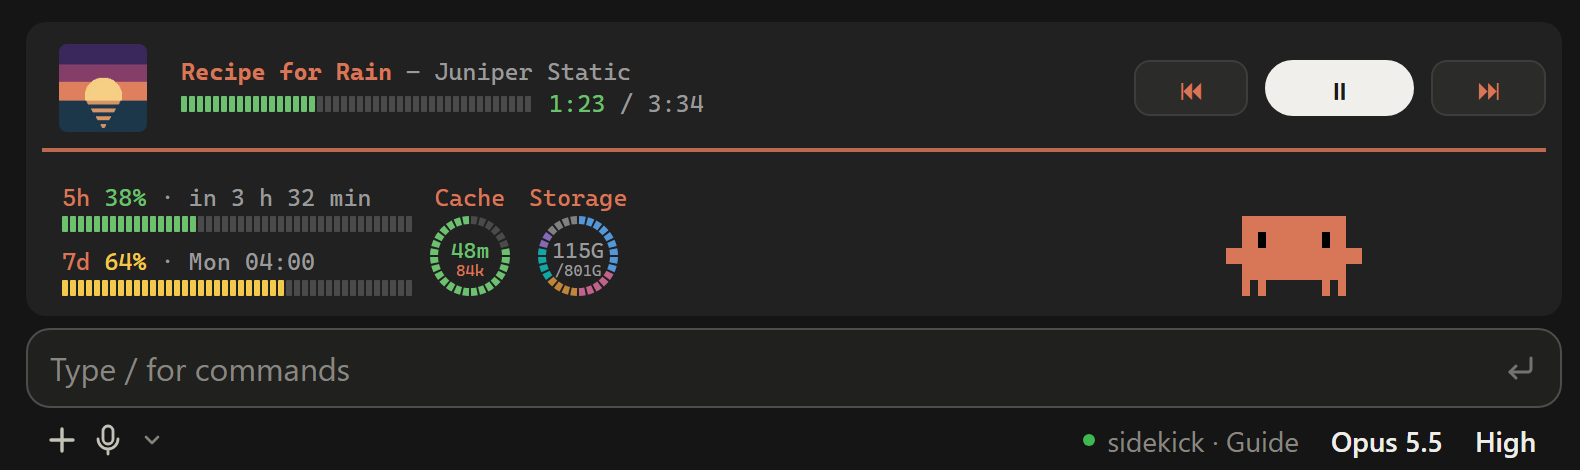
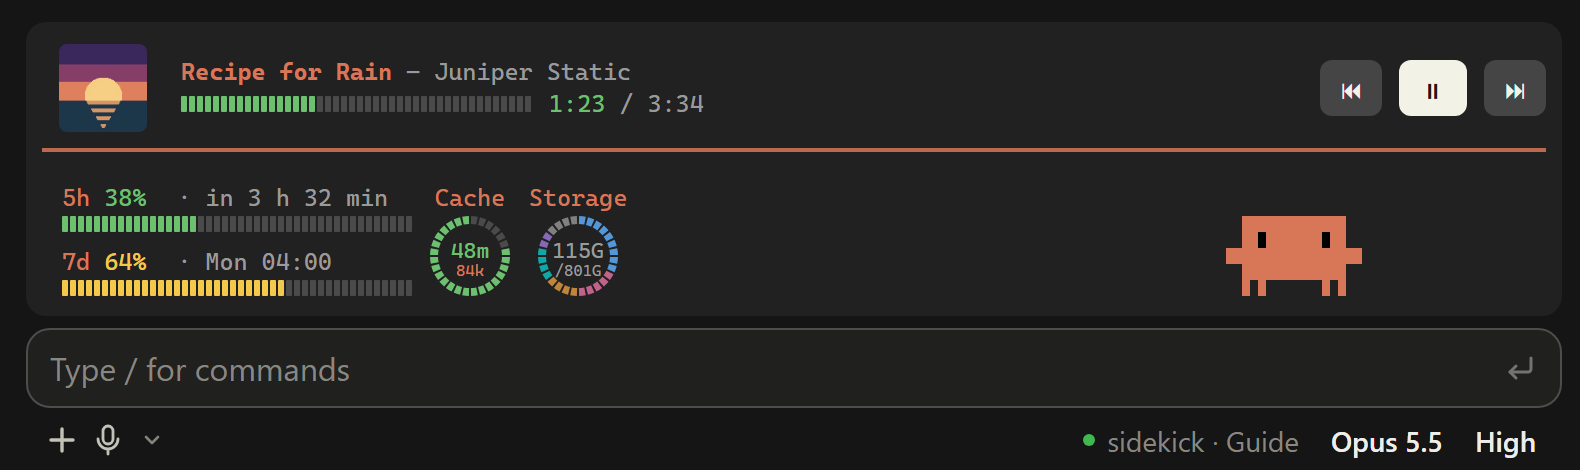
tune-strip 0.9.0: separator line no longer flickers when sidekick opens or closes; buttons as the desktop app draws them
clawd-buddy README: the sad group in tune-strip.beat.

diff --git a/mods/tune-strip/tests/tune-strip.test.ts b/mods/tune-strip/tests/tune-strip.test.ts
@@ -358,9 +358,12 @@ test('Desktop: Knöpfe zeigen nur Symbole (kein ausgeschriebener label, den der 
   walk(tree)
   expect(buttons.length).toBe(3)
   for (const b of buttons) {
-    expect(String(b.props.label)).toMatch(/^[ ⏮⏸▶⏭⇄↻−+0-9]+$/u) // die Engine setzt label aus dem Kindtext
-    expect(textOf(b)).toMatch(/^[ ⏮⏸▶⏭⇄↻−+0-9]+$/u)
+    // Die Engine setzt label aus dem einen Kindtext; 0.9.0: nur das Symbol, ohne Leerzeichen und ohne gefärbtes Text-Kind
+    // (der Desktop zeichnet den Kindtext ohne Farbe und schluckt Leerzeichen, Nachtrag 0.9.0)
+    expect(String(b.props.label ?? textOf(b))).toMatch(/^[⏮⏸▶⏭⇄↻−+0-9]+$/u)
+    expect(JSON.stringify(b)).not.toContain('"color"')
   }
+  expect(buttons.filter((b) => b.props.variant === 'primary').length).toBe(1) // nur Abspielen/Pause ist hell
   await ui.unmount()
   // Ebenen: tune-strip (40) steht vor quick-replies (20) und sidekick (30) in der Wurzel
   const lay = (n: number, name: string) => layer(n, name, key(name))
@@ -826,6 +829,78 @@ test('Trennlinie 0.7.1: quick-replies.band steht und fällt mit der Linie, auch 
   const ui2 = await $.ui.mount(band('desktop', 120))
   expect(seen((await ui2.drawn()) as Node)).toContain('Trennlinie')
   await ui2.unmount()
+})
+
+// 0.9.0: Zustand von Zufall/Wiederholen zeigt im Desktop `variant: 'primary'` (eine Textfarbe im Knopf zeichnet die App nicht)
+test('Knöpfe 0.9.0: eingeschaltete Zustandsknöpfe sind hell (primary), ausgeschaltete grau', DE_EXTRA, async ($, on) => {
+  const w = world(on, { inner: 'text', out: q({ shuffle: true, repeat: 'None' }, true) })
+  await w.start($)
+  const ui = await $.ui.mount(band('desktop', 120))
+  const v = async (k: string) => walk((await ui.drawn()) as Node).find((x) => x && typeof x === 'object' && x.type === 'Button' && x.props?.key === k)
+  const variant = async (k: string) => ((await v(k)) as { props?: Record<string, unknown> })?.props?.variant
+  expect(await variant('shuffle')).toBe('primary')
+  expect(await variant('repeat')).toBeUndefined()
+  expect(await variant('toggle')).toBe('primary')
+  expect(await variant('prev')).toBeUndefined()
+  await ui.unmount()
+})
+
+// 0.9.0: Haltezeit der Trennlinie. Beim Turnwechsel öffnet oder schließt sidekick seine Ebene, und `quick-replies.band` ist kurz null
+// (oder ein `$.state.get` wird abgelehnt); die Linie bleibt stehen und geht erst, wenn 3 s lang nichts mehr darunter steht.
+for (const gap of ['null', 'abgelehnt'] as const) {
+  test(`Trennlinie 0.9.0: sidekick auf und zu, quick-replies.band kurz ${gap} – die Linie bleibt durchgehend`, DE, async ($, on) => {
+    const o: { inner: 'above' | 'text' } = { inner: 'above' }
+    const w = world(on, o)
+    let mode: 'shown' | 'null' | 'abgelehnt' = 'shown'
+    on('state.get', ($: unknown, e: any) => {
+      if (mode === 'abgelehnt') throw new Error('state.get abgelehnt')
+      return { value: { value: e.plugin === 'quick-replies' && mode === 'shown' ? { shown: true } : undefined, version: 1 } } as never
+    })
+    on('state.set', () => ({ value: { isSet: true, version: 1 } }) as never)
+    await w.start($)
+    const ui = await $.ui.mount(band('desktop', 120))
+    expect(seen((await ui.drawn()) as Node)).toContain('Trennlinie')
+    // sidekick schließt, der Turn beginnt: quick-replies meldet kurz nichts
+    o.inner = 'text'
+    mode = gap
+    const before = w.state.renders
+    await w.clock.advance(5000) // Neuzeichnen der Zeit (POS_REDRAW)
+    expect(w.state.renders).toBeGreaterThan(before)
+    expect(seen((await ui.drawn()) as Node)).toContain('Trennlinie')
+    // sidekick öffnet wieder, die Pille ist zurück, bevor die Haltezeit endet
+    o.inner = 'above'
+    mode = 'shown'
+    for (let i = 0; i < 4; i++) {
+      await w.clock.advance(1000)
+      expect(seen((await ui.drawn()) as Node)).toContain('Trennlinie')
+    }
+    await w.clock.advance(10000)
+    expect(seen((await ui.drawn()) as Node)).toContain('Trennlinie')
+    await ui.unmount()
+  })
+}
+
+test('Trennlinie 0.9.0: steht wirklich nichts mehr darunter, geht die Linie nach der Haltezeit von selbst', DE, async ($, on) => {
+  const o: { inner: 'above' | 'text' } = { inner: 'above' }
+  const w = world(on, o)
+  let shown = true
+  on('state.get', ($: unknown, e: any) => ({ value: { value: e.plugin === 'quick-replies' && shown ? { shown: true } : undefined, version: 1 } }) as never)
+  on('state.set', () => ({ value: { isSet: true, version: 1 } }) as never)
+  await w.start($)
+  const ui = await $.ui.mount(band('desktop', 120))
+  expect(seen((await ui.drawn()) as Node)).toContain('Trennlinie')
+  shown = false
+  await w.clock.advance(5000) // erstes Zeichnen ohne etwas darunter: die Linie bleibt noch
+  expect(seen((await ui.drawn()) as Node)).toContain('Trennlinie')
+  await w.clock.advance(1000)
+  expect(seen((await ui.drawn()) as Node)).toContain('Trennlinie')
+  await w.clock.advance(3000) // Haltezeit vorbei: der Takt zeichnet selbst neu, die Linie geht
+  expect(seen((await ui.drawn()) as Node)).not.toContain('Trennlinie')
+  // kommt wieder etwas darunter, steht sie beim nächsten Zeichnen sofort
+  shown = true
+  await w.clock.advance(5000)
+  expect(seen((await ui.drawn()) as Node)).toContain('Trennlinie')
+  await ui.unmount()
 })
 
 // ---------- 0.3.0: tune-strip.playing für clawd-buddy ----------

diff --git a/mods/tune-strip/hooks/view.ts b/mods/tune-strip/hooks/view.ts
@@ -134,17 +134,22 @@ function titleOf(t: Track): string {
 /**
  * Desktop. `full`: eine eigene Leiste (Ebene `BAR_LEVEL`) über allen Mods: Cover, Titel – Interpret, Zeit mit Balken, rechts alle Knöpfe.
  * `compact`/`mini`: ein Platz in der Zeile (Cover, Titel auf feste Breite gekürzt, Knöpfe). Die Knöpfe zeigen nur Symbole: der Desktop
- * zeichnet `label` als Knopftext, deshalb steht der Inhalt als Kind und der Knopf hat keinen `label`.
+ * zeichnet `label` als Knopftext, deshalb ist das Symbol das einzige Kind und der Knopf hat keinen ausgeschriebenen `label`.
+ *
+ * Knöpfe im Desktop (Nachtrag 0.9.0): Die App zeichnet ihren eigenen Knopf aus dem Kindtext, ohne Farbe der Kinder (docs/raw/en/reference.md:307),
+ * in fester Größe; `variant: 'secondary'` sieht aus wie ohne, eine Box mit `width` macht den Knopf nicht breiter (Probe, Fynn 2026-11-05).
+ * Deshalb keine Farbe und keine Leerzeichen im Knopf: grau mit hellem Symbol, `primary` hell mit dunklem Symbol. `primary` markiert
+ * Abspielen/Pause und eingeschaltete Zustandsknöpfe (Zufall, Wiederholen), weil eine Textfarbe dort nicht ankommt.
  */
 export function desktopTree(els: Els, h: Handlers, v: ViewInput) {
   const { Box, Text, Button, Svg } = els
   const t = T[v.lang]
   const playing = v.track.status === 'Playing'
-  const btn = (key: string, glyph: string, word: Parameters<Handlers['press']>[0], o: { primary?: boolean; on?: boolean; scope?: string; color?: string } = {}) =>
+  const btn = (key: string, glyph: string, word: Parameters<Handlers['press']>[0], o: { primary?: boolean; scope?: string } = {}) =>
     Button({
       key,
       ...(o.scope ? { hover: { scope: o.scope } } : {}),
-      children: [Text({ ...(o.color ? { color: o.color } : o.on ? { color: 'success' } : {}), children: [glyph] })],
+      children: [glyph],
       ...(o.primary ? { variant: 'primary' } : {}),
       onPress: () => h.press(word),
     })
@@ -185,27 +190,25 @@ export function desktopTree(els: Els, h: Handlers, v: ViewInput) {
   // der zwischen Titel und Knöpfen frei ist: die Knöpfe rücken nicht, und sie bleiben in der Leiste mittig.
   const hint = (scope: string, text: string) =>
     Box({ display: 'none', hover: { scope, display: 'flex' }, children: [Text({ dimColor: true, wrap: 'truncate-end', children: [text] })] })
-  const named = (key: string, glyph: string, word: Parameters<Handlers['press']>[0], text: string, o: { primary?: boolean; on?: boolean; color?: string } = {}) => ({
+  const named = (key: string, glyph: string, word: Parameters<Handlers['press']>[0], text: string, o: { primary?: boolean } = {}) => ({
     button: btn(key, glyph, word, { ...o, scope: `sp-${key}` }),
     hint: hint(`sp-${key}`, text),
   })
-  // Drei große Knöpfe: zurück (neu starten, zweimal: voriger Titel), Abspielen/Pause als Pille in der Mitte, weiter. Die Symbole stehen
-  // in Orange wie die Beschriftung der limit-bars; Leerzeichen machen die Knöpfe breiter (Höhe und Schriftgröße legt der Desktop fest).
-  const wide = (g: string) => `   ${g}   `
-  const toggleN = named('toggle', playing ? '     ⏸     ' : '     ▶     ', 'toggle', playing ? t.label.pause : t.label.play, { primary: true })
+  // Drei Knöpfe: zurück (neu starten, zweimal: voriger Titel), Abspielen/Pause hell in der Mitte, weiter
+  const toggleN = named('toggle', playing ? '⏸' : '▶', 'toggle', playing ? t.label.pause : t.label.play, { primary: true })
   const parts = v.extraButtons
     ? [
-        named('prev', wide('⏮'), 'prev', t.label.prev, { color: ORANGE }),
+        named('prev', '⏮', 'prev', t.label.prev),
         named('back', '−15', 'back', t.label.back),
         toggleN,
         named('forward', '+15', 'forward', t.label.forward),
-        named('next', wide('⏭'), 'next', t.label.next, { color: ORANGE }),
+        named('next', '⏭', 'next', t.label.next),
       ]
-    : [named('prev', wide('⏮'), 'prev', t.label.prev, { color: ORANGE }), toggleN, named('next', wide('⏭'), 'next', t.label.next, { color: ORANGE })]
+    : [named('prev', '⏮', 'prev', t.label.prev), toggleN, named('next', '⏭', 'next', t.label.next)]
   const modeParts = v.extraButtons
     ? [
-        named('shuffle', '⇄', 'shuffle', t.label.shuffle, { on: v.track.shuffle }),
-        named('repeat', v.track.repeat === 'Track' ? '↻1' : '↻', 'repeat', t.label.repeat, { on: v.track.repeat !== 'None' }),
+        named('shuffle', '⇄', 'shuffle', t.label.shuffle, { primary: v.track.shuffle }),
+        named('repeat', v.track.repeat === 'Track' ? '↻1' : '↻', 'repeat', t.label.repeat, { primary: v.track.repeat !== 'None' }),
       ]
     : []
   const controls = Box({

diff --git a/mods/tune-strip/hooks/register.ts b/mods/tune-strip/hooks/register.ts
@@ -61,6 +61,12 @@ let bandDrawn = false // zeichnet tune-strip gerade etwas ins Band (Stufe nicht 
 let drawsTime = false
 let lastSig = ''
 let lastDrawAt = 0
+// Haltezeit der Trennlinie (0.9.0): „etwas darunter“ gilt sofort, „nichts darunter“ erst nach SEP_HOLD_MS. Beim Turnwechsel ist
+// `quick-replies.band` kurz null, und ein abgelehntes `$.state.get` zählte wie „nichts“; beides ließ die Linie kurz verschwinden (Fynn, 2026-11-05)
+const SEP_HOLD_MS = 3000
+let sepOn = false // steht die Linie gerade?
+let sepLostAt = 0 // erstes Zeichnen ohne etwas darunter, während die Linie stand (0 = nichts verloren); wie `lostAt` beim Titelwechsel
+let sepHeld = false // die Linie steht nur noch wegen der Haltezeit; der Takt zeichnet nach deren Ende neu
 // Jede Steuerung erhöht den Zählstand; eine Abfrage, die davor begann, wird verworfen (sie würde den Klick zurückdrehen)
 let epoch = 0
 let ctlChain: Promise<unknown> = Promise.resolve()
@@ -540,6 +546,12 @@ async function tick($: EngineInterface, getLast: () => number, setLast: (v: numb
       return
     }
   }
+  // Haltezeit der Trennlinie vorbei: einmal neu zeichnen, damit die Linie geht, falls darunter weiter nichts steht
+  if (sepHeld && now - sepLostAt >= SEP_HOLD_MS) {
+    sepHeld = false
+    await redraw($)
+    return
+  }
   // Position läuft zwischen den Abfragen weiter: nur neu zeichnen, wenn die Zeit sichtbar ist und gespielt wird, und nicht öfter als alle POS_REDRAW ms
   if (drawsTime && track?.status === 'Playing' && now - lastDrawAt >= POS_REDRAW) await redraw($)
 }
@@ -656,6 +668,9 @@ export function register(on: On, options?: Readonly<Record<string, unknown>>) {
   bandDrawn = false
   drawsTime = false
   lastSig = ''
+  sepOn = false
+  sepLostAt = 0
+  sepHeld = false
   drawn.clear()
   tracker = new Tracker()
   spotifyPid = 0
@@ -797,6 +812,10 @@ export function register(on: On, options?: Readonly<Record<string, unknown>>) {
         // Aus: auch der Takt hält an (Review 0.3.0, K1); `/tune off` hat `tune-strip.playing` schon auf null gesetzt, `on` zeichnet und startet ihn neu
         timer?.cancel()
         timer = null
+        // Die Linie fängt nach `/tune on` frisch an (Review 0.9.0 K2): keine Haltezeit aus der Zeit vor `off`
+        sepOn = false
+        sepLostAt = 0
+        sepHeld = false
         return theirs
       }
       const now = await $.clock.now()
@@ -828,7 +847,19 @@ export function register(on: On, options?: Readonly<Record<string, unknown>>) {
       const below = layers.some((l) => levelOf(l) < BAR_LEVEL) || slots.length > 0 || others.some((x) => x !== null)
       // Uhr noch einmal lesen: die Awaits oben haben Zeit gekostet, und die Voranimation des Bilds beginnt jetzt bei genau dieser Position
       const drawNow = await $.clock.now().catch(() => now)
-      const input = { lang, stage, track, cover, pos: positionNow(track, queryAt, drawNow), extraButtons, sep: below }
+      // 0.9.0: Linie mit Haltezeit (SEP_HOLD_MS); `sepHeld` lässt den Takt nach ihrem Ende neu zeichnen
+      if (below) {
+        sepOn = true
+        sepLostAt = 0
+      } else if (sepOn) {
+        if (sepLostAt === 0) sepLostAt = drawNow
+        if (drawNow - sepLostAt >= SEP_HOLD_MS) {
+          sepOn = false
+          sepLostAt = 0
+        }
+      }
+      sepHeld = stage === 'full' && sepOn && !below
+      const input = { lang, stage, track, cover, pos: positionNow(track, queryAt, drawNow), extraButtons, sep: sepOn }
       const mine = (e.surface === 'desktop' ? desktopTree(els, handlers, input) : terminalTree(els, handlers, input)) as unknown as RenderNode
       // Desktop, volle Stufe: eigene Leiste über allen Mods (kein Platz in der Zeile); sonst der Platz 20
       if (e.surface === 'desktop' && stage === 'full') return joinBand([...layers, layer(BAR_LEVEL, 'tune-strip', mine)], base, slots)

diff --git a/mods/tune-strip/README.md b/mods/tune-strip/README.md
@@ -8,13 +8,13 @@ Spotify is a trademark of Spotify AB. This is an unofficial hobby mod, not made 
 
 Since 0.6.0 it also finds the **beat** of the song (tempo, where the beats fall, and whether the song is calm, groove/hip-hop, hard or sad) so that clawd-buddy can nod along in time. **Spotify's audio is analysed locally for tempo only; nothing is recorded, stored or sent.** Only Spotify is listened to, never the rest of your system sound. Turn it off with `/tune beat off`.
 
-Tested with Claude Code **v2.1.318** · Plugin version **0.8.1** · Windows only
+Tested with Claude Code **v2.1.318** · Plugin version **0.9.0** · Windows only
 
 ## Display
 
 | Surface | Look |
 |---|---|
-| Desktop Code tab | `full`: its own bar above all other band mods, in the style of the limit-bars (monospace text, orange title, segmented green position bar with the time), three large buttons on the right (restart/previous, play/pause as a white pill in the middle, next; symbols only) and an orange separator line below. Hovering a button names its action in the line above the buttons. With `extraButtons` the bar also shows −15 s, +15 s and, after a gap, shuffle and repeat. `compact`/`mini`: a small place in the band row |
+| Desktop Code tab | `full`: its own bar above all other band mods, in the style of the limit-bars (monospace text, orange title, segmented green position bar with the time), three buttons on the right as the desktop app draws them (restart/previous and next in grey, play/pause light in the middle; symbols only) and an orange separator line below while other band mods draw underneath (it stays for 3 s when they briefly disappear, so it does not flicker). Hovering a button names its action to the left of the buttons. With `extraButtons` the bar also shows −15 s, +15 s and, after a gap, shuffle and repeat (light when on). `compact`/`mini`: a small place in the band row |
 | Terminal | One line, e.g. `♪ Title – Artist 1:23/3:45 ⏮ ⏯ ⏭`, shortened when the window is narrow |
 
 - **Sizes:** `full` (cover, title, position bar, all buttons), `compact` (cover, title, previous/play/next), `mini` (cover and play/pause), `off`. In the terminal `auto` picks the largest size that fits next to the other band mods; tune-strip always yields first.

diff --git a/mods/clawd-buddy/README.md b/mods/clawd-buddy/README.md
@@ -94,7 +94,7 @@ In plain language:
 - Hook `skill.prompt`: notices only that a skill starts. Never reads the skill's text.
 - `$.state.get` (`sidekick.buddy`): reads what the sidekick mod is doing right now (check, question, new chat), a kind and a timestamp, no texts. Without sidekick it stays empty. sidekick does not need to be installed.
 - `$.state.get` (`tune-strip.playing`): reads only whether the tune-strip mod is playing music right now (true/false), no title or artist. Without tune-strip he never bobs along.
-- `$.state.get` (`tune-strip.beat`, since 0.11.0): reads the tempo, the time of a beat, whether the beat is sure, and the group of the song (calm, groove, hard) from tune-strip; no title or artist. Anything malformed counts as no beat.
+- `$.state.get` (`tune-strip.beat`, since 0.11.0): reads the tempo, the time of a beat, whether the beat is sure, and the group of the song (calm, groove, hard, sad) from tune-strip; no title or artist. Anything malformed counts as no beat.
 - `$.state.set` (`clawd-buddy.band`): publishes only the pixel width of his band slot in the desktop app (400, or null when he is off or in the terminal), so tune-strip can make room. No other data. Written at session start, on `/clawd on|off`, and again right after `/clear`, `/resume` or `/branch` (which reset it).
 - `$.config.list`, `$.config.set`: only for `/clawd language` (since 0.10.0). Reads the settings rows and changes nothing but the `language` field of the six fynn-mods; other plugins and other fields are left alone.
 - `$.process.run`: for `/clawd language` in the desktop app and `claude -p` (since 0.10.1), and only these commands: `claude plugin list --json` (which fynn-mods are installed and on) and `claude plugin configure <mod>@fynn-mods` with `--json` (read the current language) or `--values-stdin --json` with `{"language":"de"}` or `"en"`, for the six fynn-mods only. Needs the `claude` CLI on the PATH of the app. It saves the settings of `clawd-buddy@fynn-mods`; if your desktop app loads the mod under another plugin ID (such as `clawd-buddy@inline`), that copy keeps its language. An organization policy that blocks `$.process.run` refuses the whole mod.
